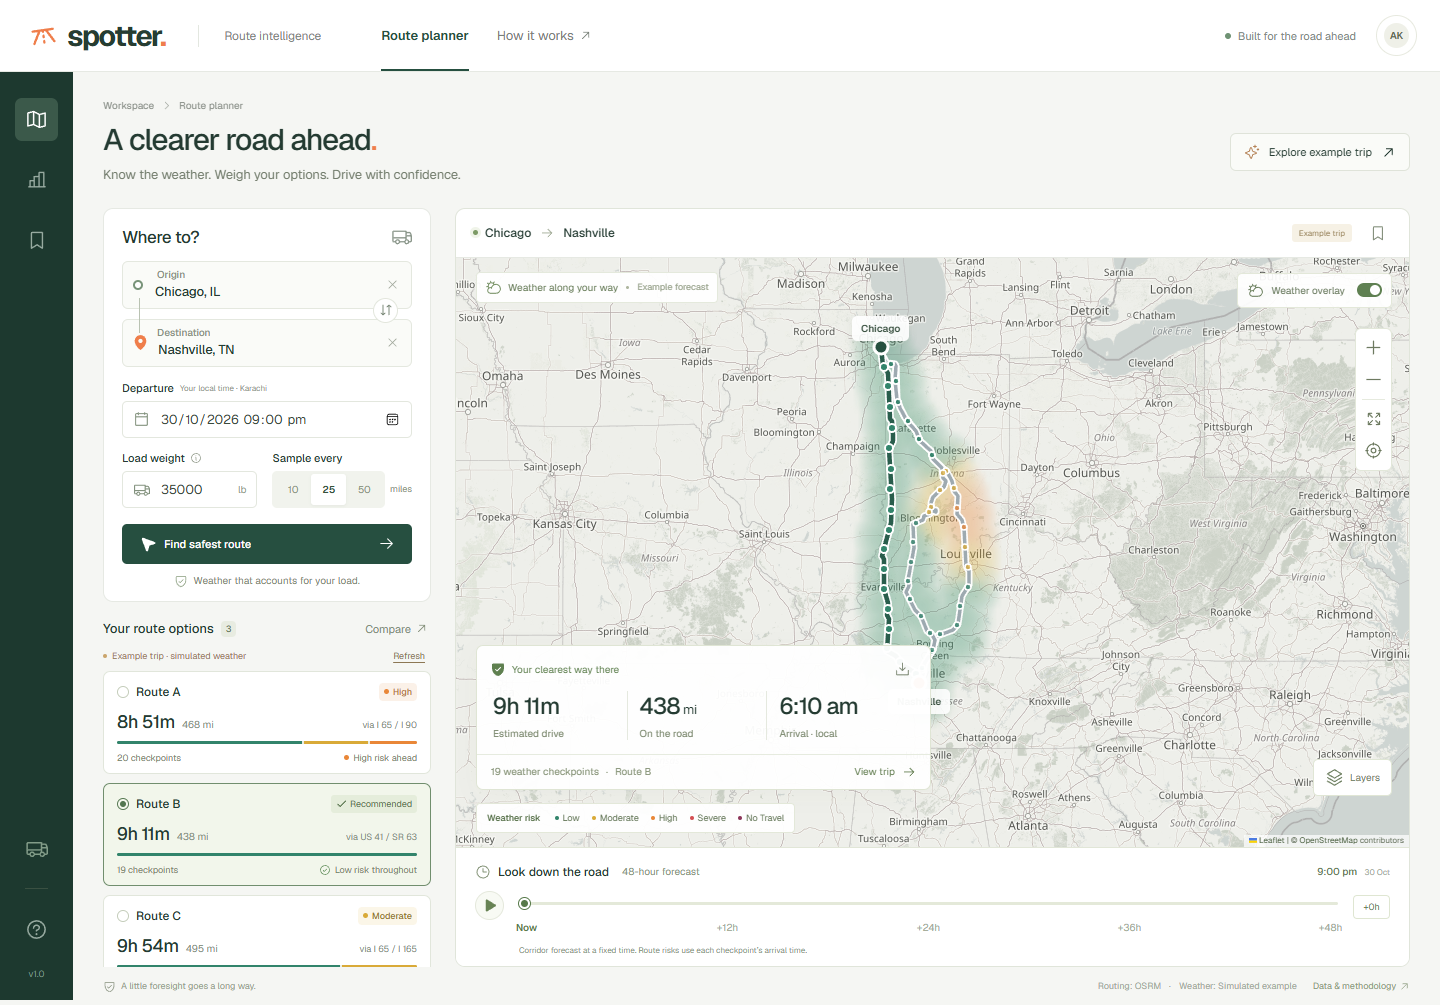
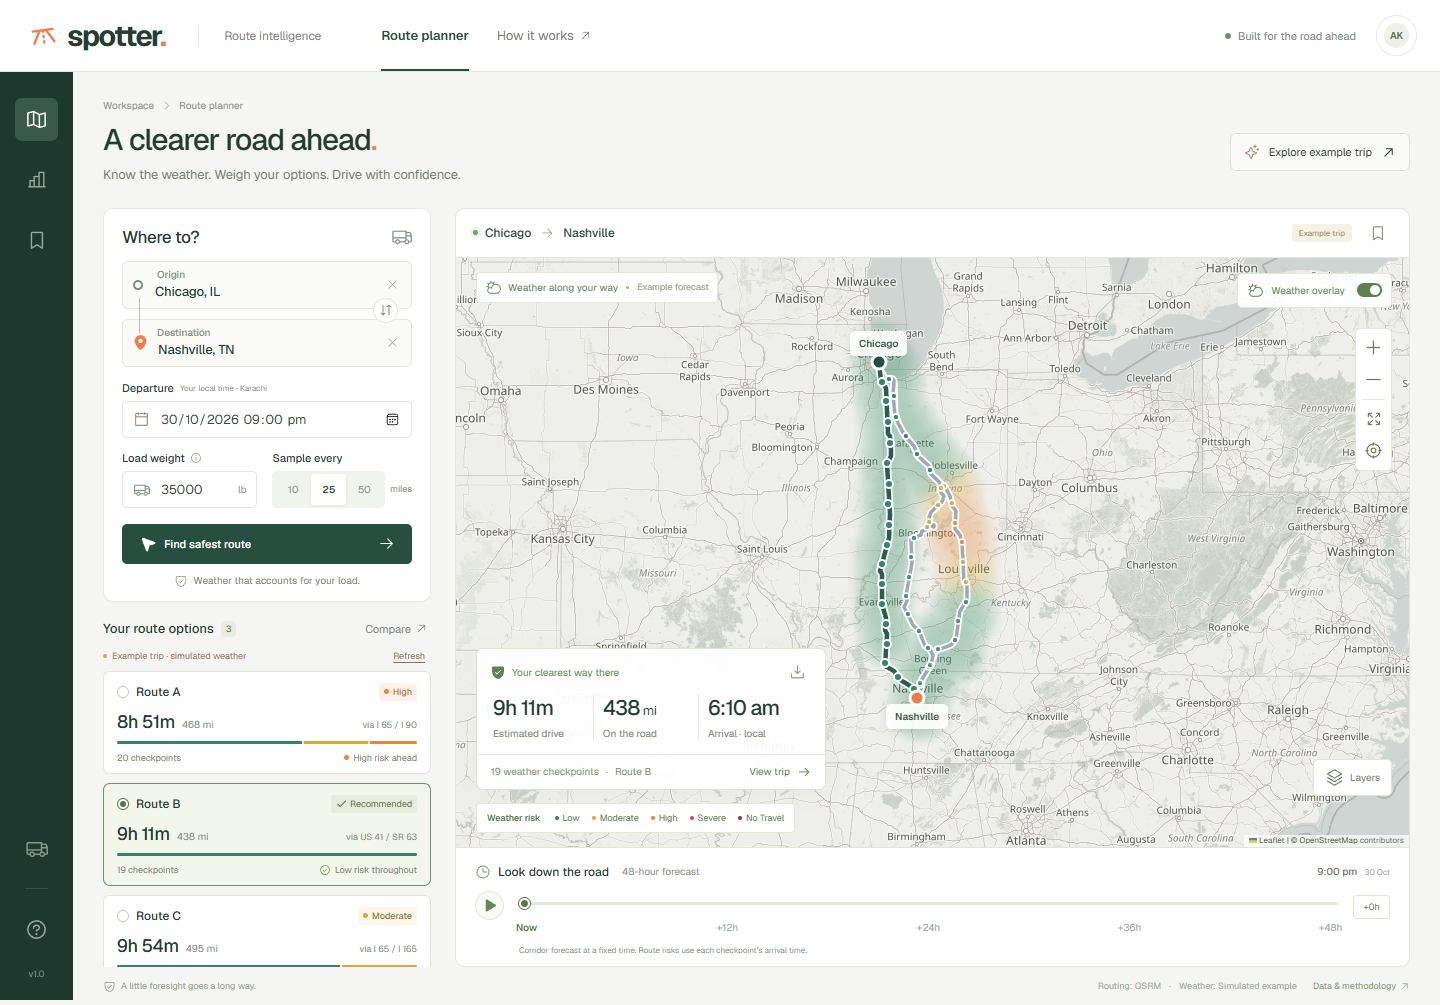
Keep route endpoints visible beside responsive trip summaries

diff --git a/frontend/src/components/RouteMap.tsx b/frontend/src/components/RouteMap.tsx
@@ -115,6 +115,19 @@ function HeatLayer({
   return null
 }
 
+function fitRoutes(map: L.Map, plan: Plan | null, animate = false) {
+  if (!plan?.routes.length) return
+  const coords = plan.routes.flatMap((route) =>
+    route.geometry.coordinates.map(([lon, lat]) => [lat, lon] as [number, number]),
+  )
+  map.fitBounds(L.latLngBounds(coords), {
+    paddingTopLeft: [45, 65],
+    paddingBottomRight: [65, window.matchMedia('(max-width: 760px)').matches ? 65 : 110],
+    maxZoom: 9,
+    animate: animate && !window.matchMedia('(prefers-reduced-motion: reduce)').matches,
+  })
+}
+
 function MapControls({
   plan,
   layer,
@@ -127,27 +140,9 @@ function MapControls({
   useEffect(() => {
     if (!plan?.routes.length || plan === previous.current) return
     previous.current = plan
-    const coords = plan.routes.flatMap((r) =>
-      r.geometry.coordinates.map(([lon, lat]) => [lat, lon] as [number, number]),
-    )
-    map.fitBounds(L.latLngBounds(coords), {
-      paddingTopLeft: [65, 65],
-      paddingBottomRight: [80, 140],
-      maxZoom: 9,
-      animate: !window.matchMedia('(prefers-reduced-motion: reduce)').matches,
-    })
+    fitRoutes(map, plan, true)
   }, [plan, map])
-  const fit = () => {
-    if (!plan?.routes.length) return
-    map.fitBounds(
-      L.latLngBounds(
-        plan.routes.flatMap((r) =>
-          r.geometry.coordinates.map(([lon, lat]) => [lat, lon] as [number, number]),
-        ),
-      ),
-      { padding: [65, 100], maxZoom: 9 },
-    )
-  }
+  const fit = () => fitRoutes(map, plan, true)
   useEffect(() => {
     if (activeCheckpoint)
       map.flyTo([activeCheckpoint.lat, activeCheckpoint.lon], Math.max(8, map.getZoom()), {
@@ -156,7 +151,10 @@ function MapControls({
       })
   }, [activeCheckpoint, map])
   useEffect(() => {
-    const observer = new ResizeObserver(() => map.invalidateSize())
+    const observer = new ResizeObserver(() => {
+      map.invalidateSize()
+      fitRoutes(map, previous.current)
+    })
     observer.observe(map.getContainer())
     return () => observer.disconnect()
   }, [map])

diff --git a/frontend/src/styles.css b/frontend/src/styles.css
@@ -2805,3 +2805,69 @@ label > span {
     margin-bottom: 5px;
   }
 }
+
+/* Keep the destination clear of the summary at every map size. */
+@media (min-width: 961px) {
+  .journey-card {
+    max-width: 350px;
+  }
+  .journey-stats strong {
+    font-size: 21px;
+  }
+  .journey-stats {
+    gap: 9px;
+  }
+}
+@media (min-width: 761px) and (max-width: 960px) {
+  .journey-card {
+    width: 215px;
+  }
+}
+@media (max-width: 760px) {
+  .map-stage {
+    min-height: 500px;
+  }
+  .route-map {
+    height: calc(100% - 135px);
+    bottom: auto;
+  }
+  .journey-card {
+    left: 0;
+    bottom: 0;
+    width: 100%;
+    max-width: none;
+    height: 135px;
+    border-radius: 0;
+    border-left: 0;
+    border-right: 0;
+    border-bottom: 0;
+    box-shadow: none;
+    background: #fff;
+  }
+  .journey-stats {
+    grid-template-columns: 1fr 1fr 1fr;
+    gap: 10px;
+  }
+  .journey-stats strong {
+    font-size: 20px;
+  }
+  .journey-stats > div:nth-child(2) {
+    border-right: 1px solid #e5e9df;
+  }
+  .journey-stats > div:last-child {
+    display: flex;
+  }
+  .journey-details > span:last-child {
+    font-size: 9px;
+    gap: 5px;
+  }
+  .risk-legend {
+    bottom: 150px;
+  }
+  .checkpoint-popup {
+    bottom: 0;
+    left: 0;
+    width: 100%;
+    border-radius: 0;
+  }
+}

diff --git a/frontend/tests/workspace.spec.ts b/frontend/tests/workspace.spec.ts
@@ -85,6 +85,21 @@ test('responsive workspace has no horizontal overflow or browser errors', async 
   await expect(page.getByRole('button', { name: /Route B, recommended/ })).toBeVisible()
   await page.waitForTimeout(1000)
   expect(browserErrors).toEqual([])
+  const destinationLabel = await page
+    .locator('.city-map-label')
+    .filter({ hasText: 'Nashville' })
+    .boundingBox()
+  const summary = await page.locator('.journey-card').boundingBox()
+  expect(destinationLabel).not.toBeNull()
+  expect(summary).not.toBeNull()
+  if (destinationLabel && summary) {
+    const overlaps =
+      destinationLabel.x < summary.x + summary.width &&
+      destinationLabel.x + destinationLabel.width > summary.x &&
+      destinationLabel.y < summary.y + summary.height &&
+      destinationLabel.y + destinationLabel.height > summary.y
+    expect(overlaps, 'The destination label must remain clear of the trip summary').toBe(false)
+  }
   expect(await page.evaluate(() => document.documentElement.scrollWidth <= window.innerWidth)).toBe(
     true,
   )

diff --git a/docs/VERIFICATION.md b/docs/VERIFICATION.md
@@ -10,7 +10,8 @@ Checked on 2026-10-30 using Python 3.12, Node 22, and Microsoft Edge.
   locally and against the public deployment. They exercise route comparison,
   checkpoint inspection, JSON export, slider playback, layer selection,
   overlay controls, keyboard city selection, input changes, explicit provider
-  errors, and horizontal overflow.
+  errors, horizontal overflow, and destination-label visibility beside the
+  route summary.
 - **Live hosted smoke checks pass:** health, React HTML and JavaScript/CSS,
   example data, live Austin geocoding, and live Chicago–Nashville planning.
   The trip returned three road options, 60 checkpoints at 25-mile spacing,

diff --git a/docs/DESIGN_REVIEW.md b/docs/DESIGN_REVIEW.md
@@ -18,3 +18,8 @@ map, and route options. Map colors are reinforced by text labels, and all
 checkpoint data is available in an HTML table. Heatmap rendering uses one
 low-resolution canvas while roads and checkpoints remain crisp vector layers.
 Reduced-motion preferences disable interface transitions.
+
+The final pass moves the phone trip summary below the map and narrows the
+desktop summary, keeping the destination marker unobstructed. A browser
+regression assertion checks the destination label against the summary bounds.
+Route fitting also updates when the map resizes.
